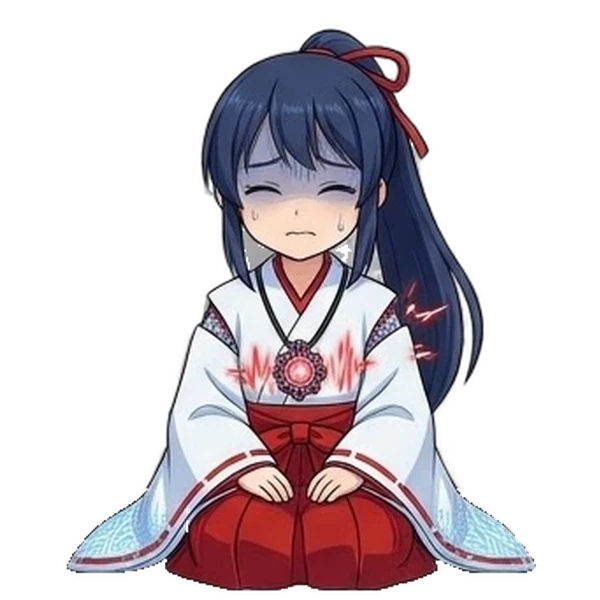
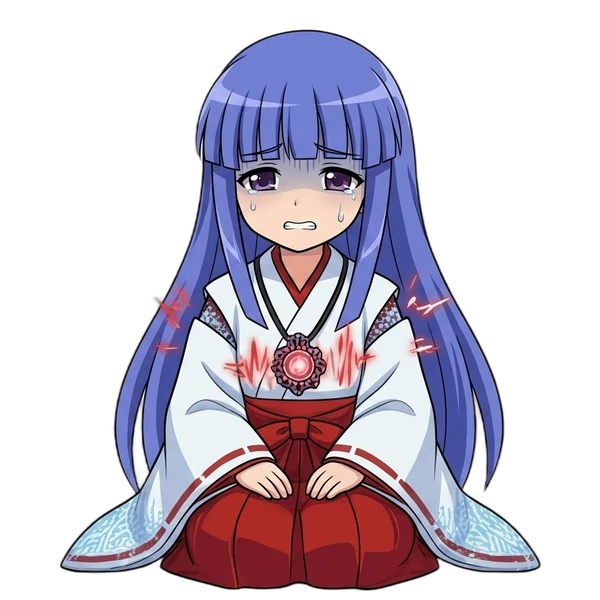
リカの絵を作り直した10枚（髪をおろした姿）に差し替え、ペンダントの位置を合わせる
Claude-Session: https://claude.ai/code/session_01Y4ipSRnuo4km18cQJtF4E8

diff --git a/index.html b/index.html
@@ -1687,11 +1687,10 @@ const PENDANT_SIZE = { w: 0.032, h: 0.055 };
 const NOEL_PENDANT = { x: 0.29, y: 0.6, w: 0.032, h: 0.07 };
 // みんなで話すときの立ち絵の大きさ（高さの割合）。ノエルはヤモリなので小さめ
 const FIG_SCALE = { noel: 0.6 };
-const RIKA_PENDANT = { x: 0.5, y: 0.6, w: 0.04, h: 0.04 };
+const RIKA_PENDANT = { x: 0.5, y: 0.58, w: 0.04, h: 0.04 };
 const DEFAULT_PENDANT = { noel: { normal: NOEL_PENDANT, off: { ...NOEL_PENDANT, y: 0.635 } },
-  rika: { normal: { ...RIKA_PENDANT, y: 0.62 }, smile: { y: 0.62 }, surprised: { y: 0.62 }, critical: { y: 0.62 },
-    annoyed: { y: 0.61 }, tired: RIKA_PENDANT, off: RIKA_PENDANT, command: RIKA_PENDANT,
-    charging: { ...RIKA_PENDANT, x: 0.513 }, outburst: { ...RIKA_PENDANT, x: 0.47, y: 0.605 } } };
+  rika: { normal: RIKA_PENDANT, tired: { y: 0.57 }, off: { y: 0.575 }, critical: { y: 0.61 },
+    outburst: { x: 0.505, y: 0.593 }, command: { y: 0.593 } } };
 // 絵ごとのペンダントの位置（外見ページでその絵に設定した値 → 初期画像の値 → 標準の値）
 function pendantAt(c, slot) {
   const own = c.pendantPos || {}, def = DEFAULT_PENDANT[c.id] || {};

diff --git a/CLAUDE.md b/CLAUDE.md
@@ -99,7 +99,7 @@
   - 完了時に「（胸のインジケーターに{秒数}秒間触れて、〜した）」をキャラに自動送信する。
   - 会話欄のお知らせは「＜マスターモード　ON＞」「＜マスターモード　OFF＞」。
   - 位置と大きさは画像に対する割合。絵ごとに外見ページの「ペンダントの位置」で決める（絵をタップ＋大きさスライダー、「この絵に使う」「すべての絵に使う」「最初の位置に戻す」）。保存は `pendantPos[スロット] = {x, y, w, h}`。
-  - 決めていない絵は、初期画像の値（`DEFAULT_PENDANT`、ノエルは x 0.29・y 0.6、停止だけ y 0.635。リカは x 0.5・y 0.6前後、大きさ 0.04）→ 標準の値 `PENDANT_POS = { x: 0.51, y: 0.52 }`・`PENDANT_SIZE`（ミエルの構図）の順に使う。登録していない枠で「通常」の絵を代わりに出すときは「通常」の位置を使う。
+  - 決めていない絵は、初期画像の値（`DEFAULT_PENDANT`、ノエルは x 0.29・y 0.6、停止だけ y 0.635。リカは x 0.5・y 0.58前後、大きさ 0.04）→ 標準の値 `PENDANT_POS = { x: 0.51, y: 0.52 }`・`PENDANT_SIZE`（ミエルの構図）の順に使う。登録していない枠で「通常」の絵を代わりに出すときは「通常」の位置を使う。
 - **横向きのバッテリーゲージを3秒長押し** … 充電の開始／停止（1.5秒ごとに+1%、100%で自動停止）。
 - 充電ボタン・マスターモードのボタンは置かない（長押しのみ）。
 
